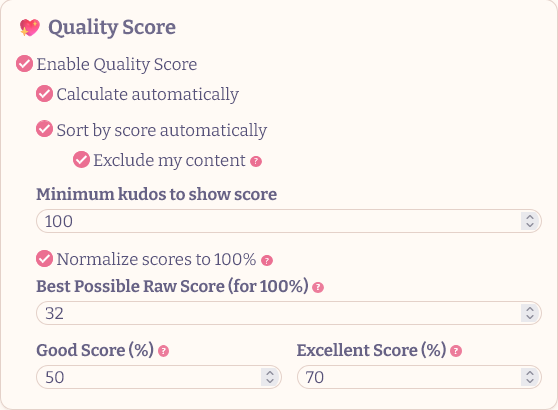
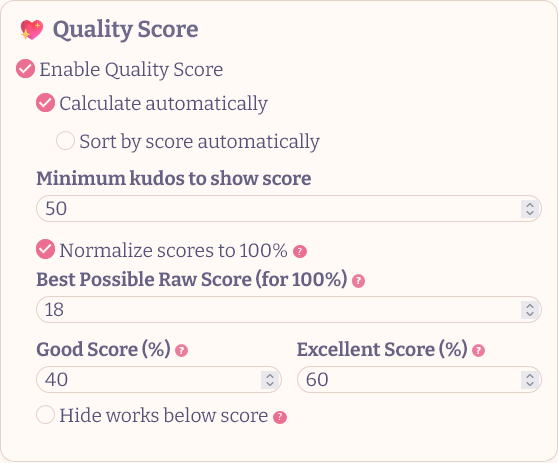
updated documentation

diff --git a/documentation/Reading Time & Quality Score.md b/documentation/Reading Time & Quality Score.md
@@ -6,6 +6,10 @@ Get a quick feel for any fic at a glance:
 - **Quality Score Bar** ⭐ – a smarter kudos/hits ratio that accounts for fic length.
 - **Both features are independent** — use one or both
 
+> **v4 Update – Improved Quality Score Formula:**  
+ > The Quality Score model has been updated to give more reliable results across all fic lengths. Short works no longer drop too low, and longfics aren’t pushed higher than they should be, leading to a more even score distribution overall. Because this changes how raw scores are calculated, your max score and threshold settings were reset to the new defaults (max score is now 24 instead of 32). If you're updating from an older version, you may want to adjust these based on the typical scores in your fandom.
+
+
 ---
 ### ✨ Features
 
@@ -18,24 +22,24 @@ Get a quick feel for any fic at a glance:
 
 ##### **NEW** - Chapter Reading Time & Word Count
 - Provides reading time and word count at the start of the chapter
-- Three different visual options (Default, Notice, and Time Only
+- Three different visual options (Default, Notice, and Time Only)
 
 ![Chapter Reading Time](https://raw.githubusercontent.com/Wolfbatcat/ao3-userscripts/refs/heads/main/images/image_reading-time-quality-score-10.png "Chapter Reading Time Settings")
 
 
 #### **Quality Score**
 - Uses **kudos + hits + word count** to calculate engagement.  
-- **Formula:** kudos per hit, adjusted by √(words ÷ 5000).  
+- **Formula:** kudos per hit, adjusted by (words ÷ 5000)^0.4.   
 - Word-based scoring avoids:  
   - Punishing long fics just for being long.  
   - Rewarding fics split into tiny chapters.  
 - **Normalization (optional):**  
   - Converts raw scores into a 0–100 scale.  
-  - You choose the **“max score”** baseline (default: 32).  
-  - **Best practice:** set max score to the **highest raw score in your fandom** — that fic will be treated as “perfect.”  
+  - You choose the **“max score”** baseline (default: 24).  
+  - **Best practice:** set max score to the **highest raw score in your fandom** — that fic will be treated as “perfect.”  Keep in mind that smaller and medium-sized fandoms average higher scores than larger fandoms.
   - Want more forgiving scores? Just set the max score lower.  
-- Configurable thresholds color-code scores (e.g., low, medium, high).  
-- **Hide works by score:** Optionally filter out works below a minimum quality score threshold.
+  - Configurable thresholds color-code scores.  
+  - **Hide works by score:** Optionally filter out works below a minimum quality score threshold.
 
 ![Quality Score](https://raw.githubusercontent.com/Wolfbatcat/ao3-userscripts/refs/heads/main/images/image_reading-time-quality-score-2.png "Quality Score Settings")
 

diff --git a/documentation/Auto Pseud.md b/documentation/Auto Pseud.md
@@ -14,6 +14,9 @@ Auto-selects your pseud for comments and bookmarks on AO3, based on fandom.
 
 ---
 
+
+<img src="https://raw.githubusercontent.com/Wolfbatcat/ao3-userscripts/refs/heads/main/images/image_auto-pseud.png" alt="Auto Pseud" width="800" />
+
 ## 📝 How to Use
 
 1. **Edit Your Pseud:**
